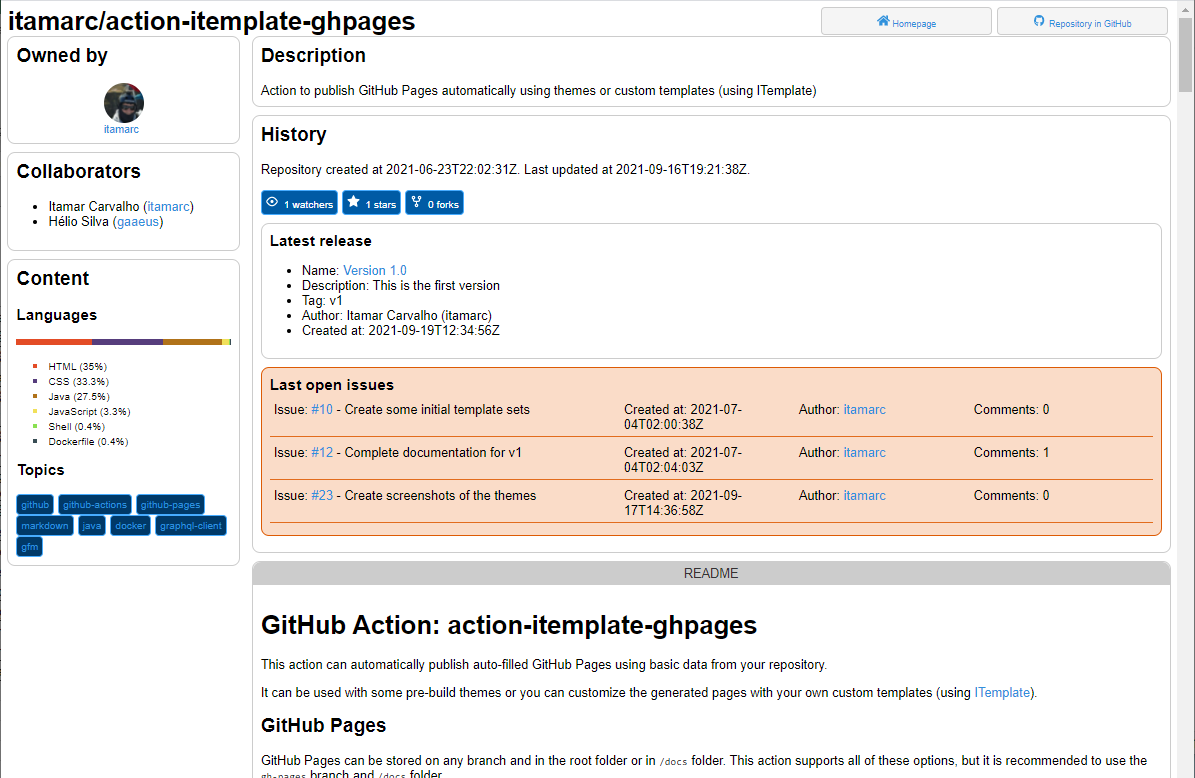
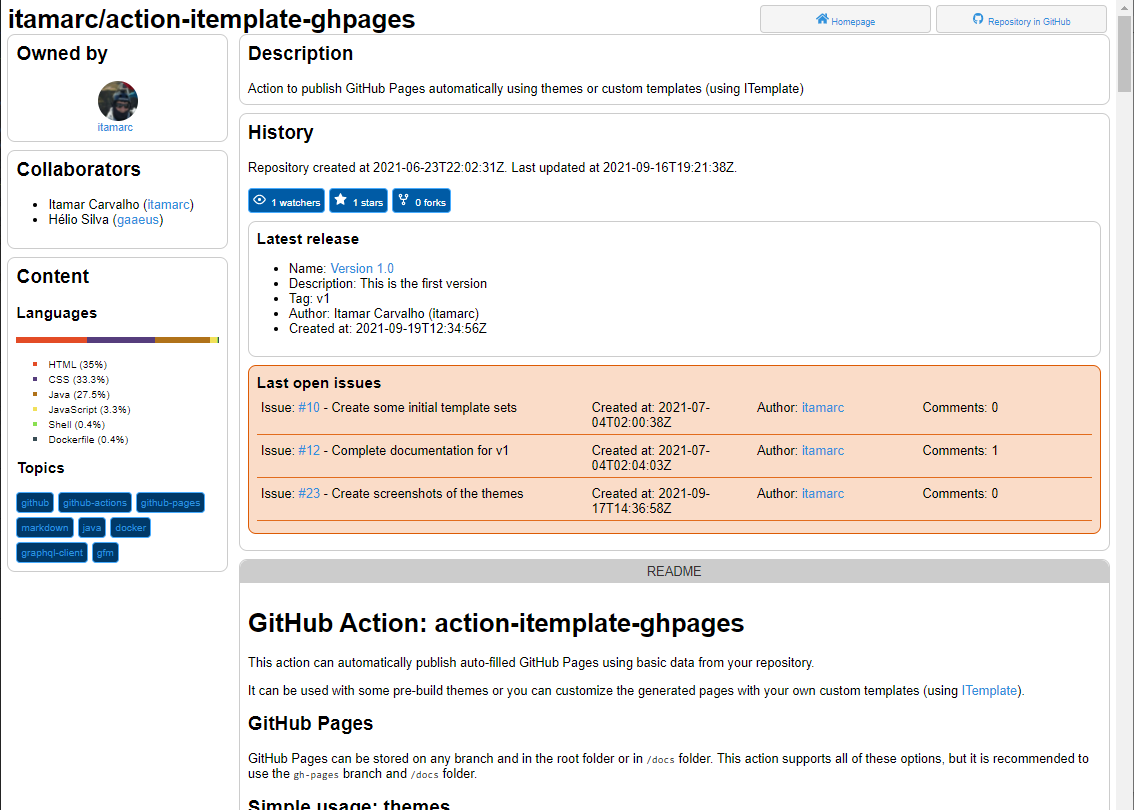
action-itemplate-ghpages: Updated content

Changed region(s): [[0.0, 0.0, 0.9877, 1.0], [0.6481, 0.0, 1.0, 0.0617], [0.9877, 0.0925, 1.0, 0.1234]]

diff --git a/docs/index.html b/docs/index.html
@@ -43,7 +43,7 @@
         <div class="container shadow">
             <h2>History</h2>
             
-            <p>Repository created at 2021-06-23T22:02:31Z. Last updated at 2021-09-20T19:33:46Z.</p>
+            <p>Repository created at 2021-06-23T22:02:31Z. Last updated at 2021-09-20T22:01:15Z.</p>
             
             <div class="svgIconsDiv">
             <span id="watchers" class="button">
@@ -112,6 +112,7 @@ below), you put only the name of the theme you want to use enclosed by &quot;:&q
 <li><code>:greenish:</code></li>
 <li><code>:purplish:</code></li>
 <li><code>:grayish:</code></li>
+<li><code>:hellish:</code></li>
 <li><code>:greenscreen:</code></li>
 </ul>
 <p>(You can see a screenshot of the themes in the <a href="Themes.html">Themes</a> page).</p>
@@ -511,7 +512,7 @@ see a page generated by this Action, you can access it at
             <h2>Content</h2>
             
             <div id="languages"></div>
-            <script>languagesAsUL([{"color":"#384d54","size":741,"name":"Dockerfile"},{"color":"#b07219","size":53310,"name":"Java"},{"color":"#89e051","size":824,"name":"Shell"},{"color":"#f1e05a","size":6356,"name":"JavaScript"},{"color":"#e34c26","size":68887,"name":"HTML"},{"color":"#563d7c","size":63329,"name":"CSS"}], 193447)</script>
+            <script>languagesAsUL([{"color":"#384d54","size":741,"name":"Dockerfile"},{"color":"#b07219","size":53961,"name":"Java"},{"color":"#89e051","size":824,"name":"Shell"},{"color":"#f1e05a","size":6356,"name":"JavaScript"},{"color":"#e34c26","size":77848,"name":"HTML"},{"color":"#563d7c","size":69077,"name":"CSS"}], 208807)</script>
             
             <div id="topics"></div>
             <script language="javascript">topicsAsSPAN([{"name":"github","url":"https://github.com/topics/github"},{"name":"github-actions","url":"https://github.com/topics/github-actions"},{"name":"github-pages","url":"https://github.com/topics/github-pages"},{"name":"markdown","url":"https://github.com/topics/markdown"},{"name":"java","url":"https://github.com/topics/java"},{"name":"docker","url":"https://github.com/topics/docker"},{"name":"graphql-client","url":"https://github.com/topics/graphql-client"},{"name":"gfm","url":"https://github.com/topics/gfm"}])</script>
@@ -526,7 +527,7 @@ see a page generated by this Action, you can access it at
     </div><!-- smalldiv -->
 
     <div class="footer">
-        <p class="lastupd">Last updated: 2021-09-20 16:34:41 GMT-03:00</p>
+        <p class="lastupd">Last updated: 2021-09-20 19:02:21 GMT-03:00</p>
         <p class="actionmkt">Created automatically using <a href="https://itamarc.github.io/action-itemplate-ghpages" target="_blank">itamarc/action-itemplate-ghpages</a>.
             Theme: 'grayish'.</p>
     </div>

diff --git a/docs/Themes.html b/docs/Themes.html
@@ -37,7 +37,10 @@
 <h2><a href="#theme--6" id="theme--6"></a>Theme :grayish:</h2>
 <p><img src="images/theme-screenshot-grayish.png" alt="Theme grayish" title="grayish" /></p>
 <hr />
-<h2><a href="#theme--7" id="theme--7"></a>Theme :greenscreen:</h2>
+<h2><a href="#theme--7" id="theme--7"></a>Theme :hellish:</h2>
+<p><img src="images/theme-screenshot-hellish.png" alt="Theme hellish" title="hellish" /></p>
+<hr />
+<h2><a href="#theme--8" id="theme--8"></a>Theme :greenscreen:</h2>
 <p><img src="images/theme-screenshot-greenscreen.png" alt="Theme greenscreen" title="greenscreen" /></p>
 <script lang="javascript">
     var title = '';
